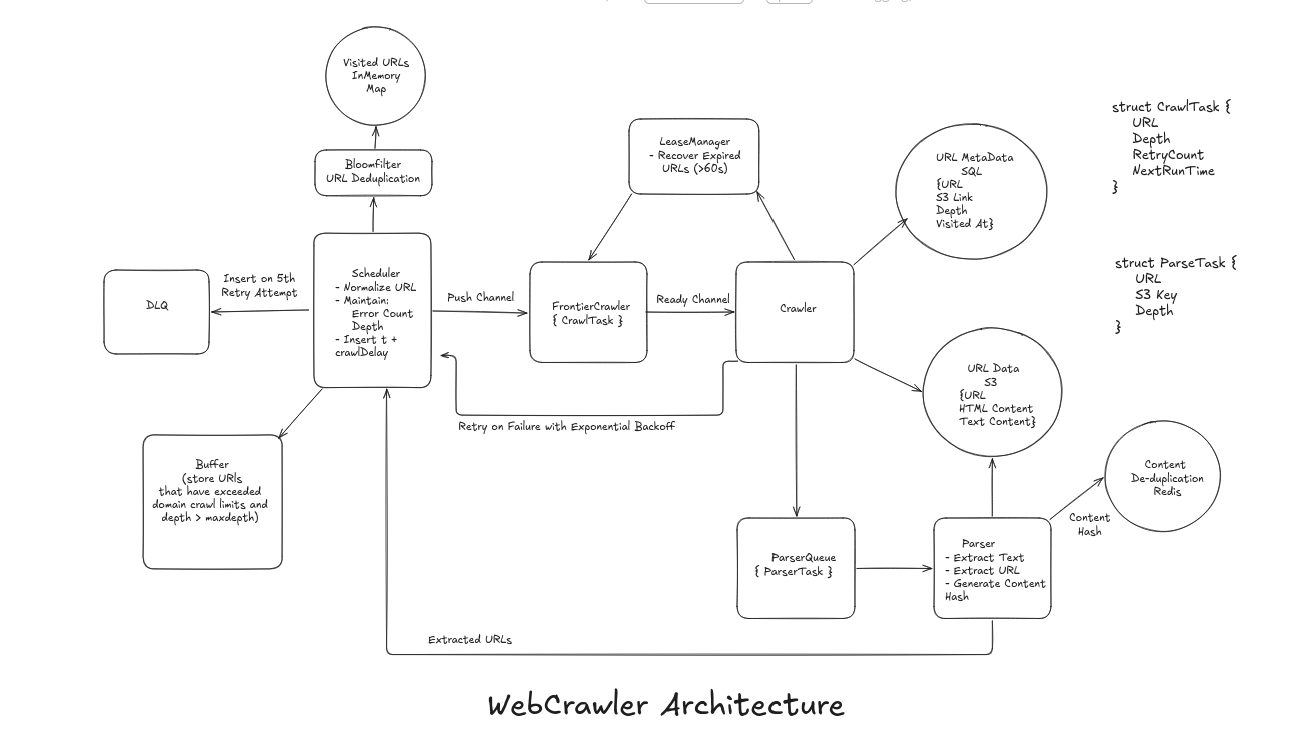
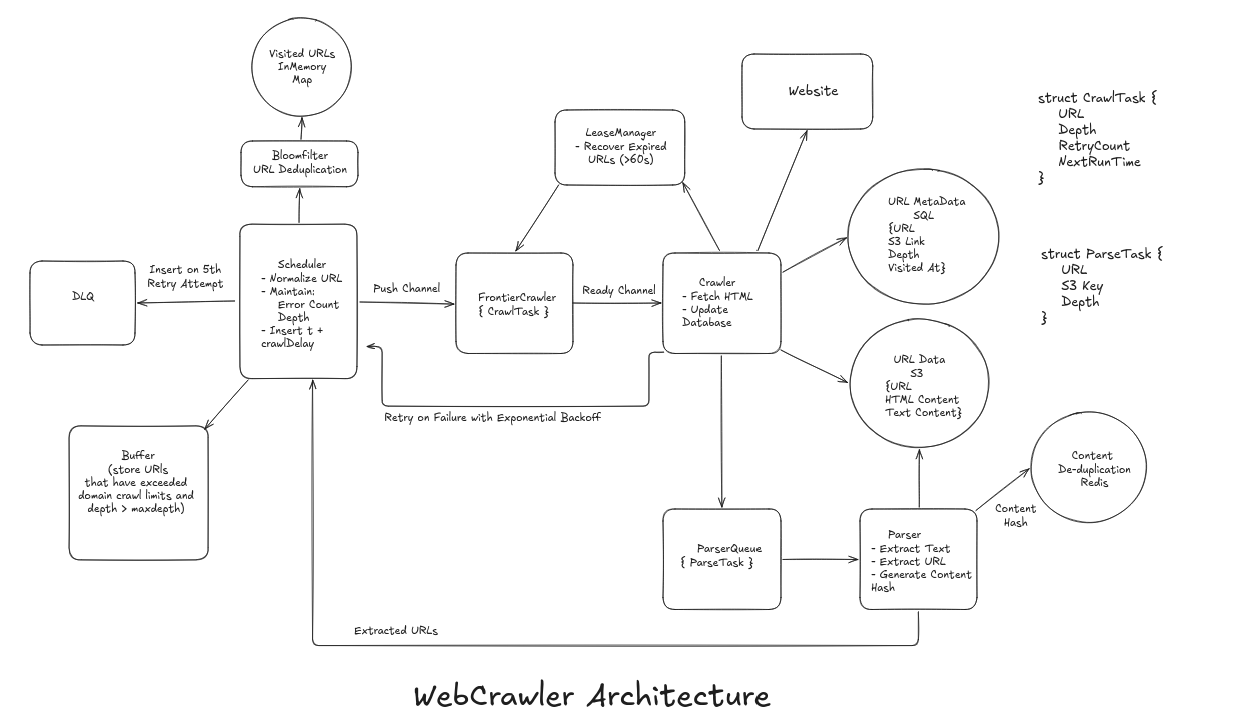
updated demo video

diff --git a/README.md b/README.md
@@ -6,7 +6,7 @@ A **highly concurrent, production-grade website-polite web crawler** written in 
 
 ## 📺 Demo
 
-https://github.com/lejaynd/webcrawler/demo.webm
+[Watch Demo](./demo.mp4)
 
 > Seed a URL → watch it crawl in real time → ask questions about the crawled content, powered by Groq's LLaMA.
 